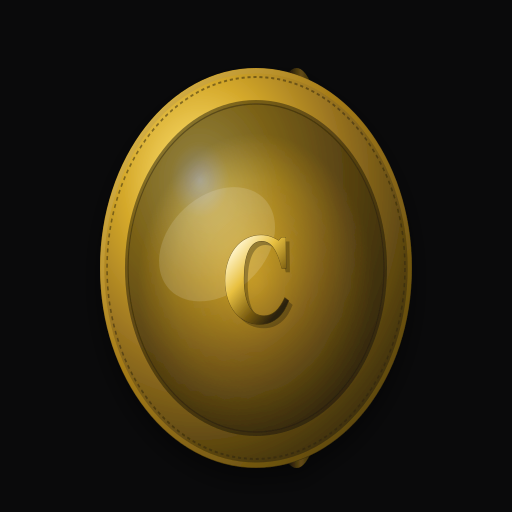
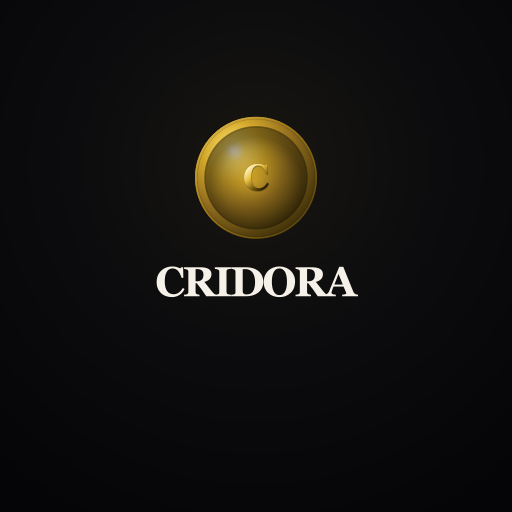
androidlogo2

diff --git a/frontend/vite.config.js b/frontend/vite.config.js
@@ -11,7 +11,6 @@ export default defineConfig({
       registerType: 'autoUpdate',
       includeAssets: [
         'favicon.svg',
-        'cridora-pwa-icon.svg',
         'apple-touch-icon.png',
         'pwa-192.png',
         'pwa-512.png',

diff --git a/docs/PWA.md b/docs/PWA.md
@@ -6,7 +6,7 @@ The storefront is installable as a **standalone** web app after a production bui
 
 - **HTTPS** on the public domain (required for install and service workers; `http://localhost` is allowed for development).
 - **Frontend build** deployed so Django can serve `dist/` (`FRONTEND_DIST_DIR`): `index.html`, `sw.js`, `manifest.webmanifest`, `workbox-*.js`, icons, and assets.
-- **Icons**: `pwa-192.png`, `pwa-512.png`, `apple-touch-icon.png` (generated by `npm run build` from `scripts/export-pwa-icons.mjs`).
+- **Icons**: `pwa-192.png`, `pwa-512.png`, `apple-touch-icon.png` (generated by `npm run build` via `scripts/export-pwa-icons.mjs`, compositing `assets/android-launcher/ic_launcher_background.svg` + `ic_launcher_foreground.svg`).
 
 ## Install on Android (Chrome / Edge)
 
